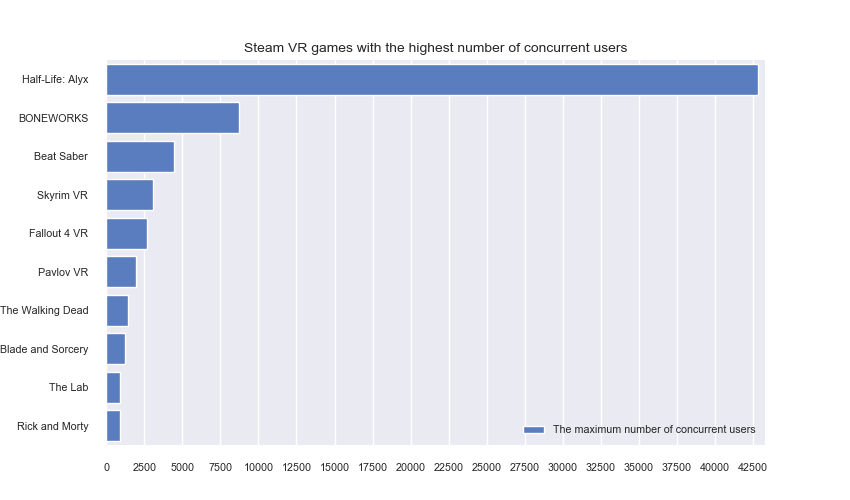
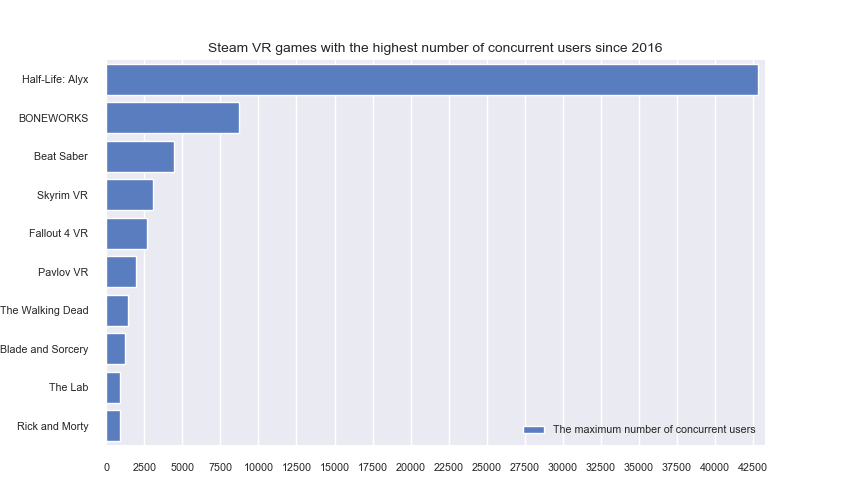
update

Changed region(s): [[0.2447, 0.09, 0.7953, 0.12]]

diff --git a/src/create_charts.py b/src/create_charts.py
@@ -206,7 +206,7 @@ def main():
     plt.savefig('../images/monthly_vrusage.png')
 
     sql = sql_top10()
-    chart_title = "Steam VR games with the highest number of concurrent users"
+    chart_title = "Steam VR games with the highest number of concurrent users since 2016"
     top10_chart(sql, chart_title)
     plt.savefig('../images/top10_max_peak.png')
 
